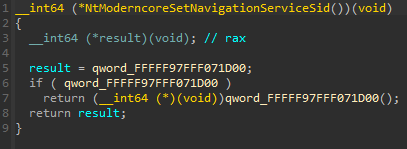
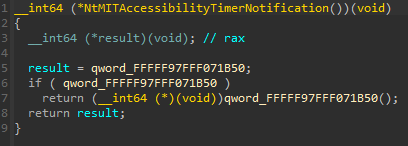
readme added

diff --git a/README.md b/README.md
@@ -1,0 +1,88 @@
+# Win32k.sys Function Pointer Hook
+
+A kernel driver that hooks win32k.sys function pointers by pattern scanning and modifying function dispatch tables.
+
+## How It Works
+
+### The Problem
+I wanted to hook a win32k.sys syscall, but traditional inline hooking is complex and fragile. Looking at the disassembly in IDA, I noticed many syscall handlers follow a pattern:
+
+![Default Syscall Handler](images/default%20syscall.png)
+
+```asm
+mov     rax, cs:qword_XXXXXX    ; Load function pointer
+test    rax, rax                 ; Check if NULL
+jz      short loc_exit           ; Skip if not implemented
+call    rax                      ; Call the function
+```
+
+Instead of inline hooking the syscall itself, I realized I could just **replace the function pointer** in that qword. Much cleaner.
+
+### The Journey
+
+#### Step 1: Pattern Scanning
+Win32k.sys is a session-space driver - it's not loaded in system process context. I had to:
+1. Find a GUI process (explorer.exe) 
+2. Attach to its context with `KeStackAttachProcess`
+3. Pattern scan for the specific `mov rax, [rip+offset]` instruction
+
+The pattern is the byte signature of that instruction sequence. I used IDA to extract the bytes and mask out the relative offsets.
+
+#### Step 2: Extracting the Function Pointer
+The instruction `48 8B 05 XX XX XX XX` is RIP-relative addressing. To get the actual qword address:
+```cpp
+INT32 offset = *(INT32*)(patternAddress + 3);  // Extract offset
+PVOID* qwordPtr = (PVOID*)(patternAddress + 7 + offset);  // RIP + offset + instruction length
+```
+
+#### Step 3: The Hook
+Initially, many functions had NULL pointers (unimplemented features). I switched to `NtMITAccessibilityTimerNotification` which had a real function pointer.
+
+Hooking is simple:
+1. Disable write protection (CR0 WP bit)
+2. Replace the qword with my handler address
+3. Re-enable write protection
+
+![Driver Load Result](images/driver%20load%20result.png)
+
+#### Step 4: Triggering the Hook
+Created a user-mode app that:
+1. Loads win32u.dll (syscall stubs)
+2. Resolves `NtMITAccessibilityTimerNotification`
+3. Calls it directly with test input
+
+When the syscall enters the kernel and executes that `call rax`, it jumps to my hook handler instead.
+
+![Hook Call Result](images/hook%20call%20result.png)
+
+![Usermode Result](images/usermode%20result.png)
+
+### Key Insights
+
+**Session Space**: Win32k.sys exists per-session, not globally. Had to attach to the target process's context both for scanning AND for the hook to work in that process.
+
+**NULL Pointers**: Many function pointers are NULL (optional/unimplemented features). The code checks before calling. I had to find an actually-implemented function.
+
+**RIP-Relative Addressing**: x64 uses instruction-pointer-relative offsets. Can't just read the bytes directly - have to calculate the absolute address.
+
+**Write Protection**: Kernel memory is write-protected. Must toggle CR0.WP bit to modify the qword.
+
+## Project Structure
+
+```
+├── main.cpp                    # Driver entry, orchestrates everything
+├── pattern_scan/
+│   ├── pattern_scan.h
+│   └── pattern_scan.cpp        # Scans .text section for byte patterns
+├── kernel_utils/
+│   ├── kernel_utils.h
+│   └── kernel_utils.cpp        # Module enumeration, PE parsing
+├── process_utils/
+│   ├── process_utils.h
+│   └── process_utils.cpp       # Find processes by name
+└── hook_handler/
+    ├── hook_handler.h
+    └── hook_handler.cpp        # Hook installation/removal
+```
+
+Hooking function pointers is way cleaner than inline hooks when the target uses dispatch tables. Just find the pointer and swap it.
